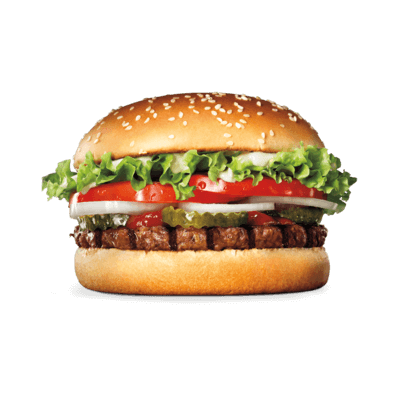
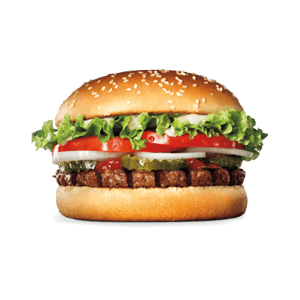
MENU 1

diff --git a/index.html b/index.html
@@ -241,18 +241,131 @@
     </section>
 
     <section class="menu">
-        <div class="container-fluid" style="min-height: 1750px;">
-            <div class="col-12 col-md-3">
-            <div class="row">
-                <div class="burgers">
-                    <img class="bottom img-fluid" src="image/test1.png" />
-                    <img class="top img-fluid" src="image/burger1.png" />
-                </div>
-        </div>
-            </div>
-        </div>
+        <div class="container-fluid" style="min-height: 1700px; max-width: 1500px;">
+            <div class="row justify-content-center">
 
-</section>
+                <div class="col-12 col-md-3">
+                    <div class="burgers text-center w-100 ">
+                        <div class="bottom w-100 text-center pt-5">
+                           <font color="#800000"><h2>BBQ CHEESE & BACON</h2></font>
+                            <div
+                                style="width: 150px; margin:auto; padding-top:3px; padding-bottom:1px;border: 1px solid #800000; text-align: center;background: #800000;">
+                               <font color="white"><h4>4€</h4></font>
+                            </div>
+                        </div>
+                        <img class="top img-fluid " src="image/burger1.png" />
+                        <div class="bottom w-100 position-absolute text-center" style="bottom: 30px;"><font size=1><b><p>Pain maison, 2 steak 50gr, cheddar, tomate, salade, oignon, cornichon</p></b></font></div>
+                    </div>
+                </div>
+
+                <div class="col-12 col-md-3">
+                    <div class="burgers text-center w-100 ">
+                        <div class="bottom w-100 text-center pt-5">
+                           <font color="#800000"><h2>WHOPPER JR.®</h2></font>
+                            <div
+                                style="width: 150px; margin:auto; padding-top:3px; padding-bottom:1px;border: 1px solid #800000; text-align: center;background: #800000;">
+                               <font color="white"><h4>4,50€</h4></font>
+                            </div>
+                        </div>
+                        <img class="top img-fluid " src="image/burger2.png" />
+                        <div class="bottom w-100 position-absolute text-center" style="bottom: 30px;"><font size=1><b><p>Pain maison, steak 150gr, cheddar, tomate, salade, oignon, cornichon</p></b></font></div>
+                    </div>
+                </div>
+
+                <div class="col-12 col-md-3">
+                    <div class="burgers text-center w-100 ">
+                        <div class="bottom w-100 text-center pt-5">
+                           <font color="#800000"><h2>CRISPY CHICKEN</h2></font>
+                            <div
+                                style="width: 150px; margin:auto; padding-top:3px; padding-bottom:1px;border: 1px solid #800000; text-align: center;background: #800000;">
+                               <font color="white"><h4>4€</h4></font>
+                            </div>
+                        </div>
+                        <img class="top img-fluid " src="image/burger3.png" />
+                        <div class="bottom w-100 position-absolute text-center" style="bottom: 30px;"><font size=1><b><p>Pain maison, Poulet pané croustillant, salade, thomate</p></b></font></div>
+                    </div>
+                </div>
+
+                                <div class="col-12 col-md-3">
+                    <div class="burgers text-center w-100 ">
+                        <div class="bottom w-100 text-center pt-5">
+                           <font color="#800000"><h2>BACON CHEESE</h2></font>
+                            <div
+                                style="width: 150px; margin:auto; padding-top:3px; padding-bottom:1px;border: 1px solid #800000; text-align: center;background: #800000;">
+                               <font color="white"><h4>4€</h4></font>
+                            </div>
+                        </div>
+                        <img class="top img-fluid " src="image/burger4.png" />
+                        <div class="bottom w-100 position-absolute text-center" style="bottom: 30px;"><font size=1><b><p>Pain maison, steak 150gr, cheddar, tomate, salade, oignon, cornichon</p></b></font></div>
+                    </div>
+                </div>
+            </div>
+
+
+            <div class="row justify-content-center">
+
+                <div class="col-12 col-md-3">
+                    <div class="burgers text-center w-100 ">
+                        <div class="bottom w-100 text-center pt-5">
+                           <font color="#800000"><h2>CHICKEN LOUISIANE</h2></font>
+                            <div
+                                style="width: 150px; margin:auto; padding-top:3px; padding-bottom:1px;border: 1px solid #800000; text-align: center;background: #800000;">
+                               <font color="white"><h4>7€</h4></font>
+                            </div>
+                        </div>
+                        <img class="top img-fluid " src="image/burger5.png" />
+                        <div class="bottom w-100 position-absolute text-center" style="bottom: 30px;"><font size=1><b><p>pain moelleux, oignons, bacon, fromage fondu, poulet pané croustillant </p></b></font></div>
+                    </div>
+                </div>
+
+                <div class="col-12 col-md-3">
+                    <div class="burgers text-center w-100 ">
+                        <div class="bottom w-100 text-center pt-5">
+                           <font color="#800000"><h2>CHICKEN WIKS</h2></font>
+                            <div
+                                style="width: 150px; margin:auto; padding-top:3px; padding-bottom:1px;border: 1px solid #800000; text-align: center;background: #800000;">
+                               <font color="white"><h4>3€</h4></font>
+                            </div>
+                        </div>
+                        <img class="top img-fluid " src="image/burger6.png" />
+                        <div class="bottom w-100 position-absolute text-center" style="bottom: 30px;"><font size=1><b><p>Pain maison, poulet croustillant, tomate, salade, oignon</p></b></font></div>
+                    </div>
+                </div>
+
+                <div class="col-12 col-md-3">
+                    <div class="burgers text-center w-100 ">
+                        <div class="bottom w-100 text-center pt-5">
+                           <font color="#800000"><h2>WRAP CROUSTY</h2></font>
+                            <div
+                                style="width: 150px; margin:auto; padding-top:3px; padding-bottom:1px;border: 1px solid #800000; text-align: center;background: #800000;">
+                               <font color="white"><h4>6€</h4></font>
+                            </div>
+                        </div>
+                        <img class="top img-fluid " src="image/burger7.png" />
+                        <div class="bottom w-100 position-absolute text-center" style="bottom: 30px;"><font size=1><b><p>fromages fondues, salade, tomate, oignons frits et une tortilla </p></b></font></div>
+                    </div>
+                </div>
+
+                <div class="col-12 col-md-3">
+                    <div class="burgers text-center w-100 ">
+                        <div class="bottom w-100 text-center pt-5">
+                           <font color="#800000"><h2>PETIT VEGAS</h2></font>
+                            <div
+                                style="width: 150px; margin:auto; padding-top:3px; padding-bottom:1px;border: 1px solid #800000; text-align: center;background: #800000;">
+                               <font color="white"><h4>2€</h4></font>
+                            </div>
+                        </div>
+                        <img class="top img-fluid " src="image/burger8.png" />
+                        <div class="bottom w-100 position-absolute text-center" style="bottom: 30px;"><font size=1><b><p>Pain maison, poulet croustillant, salade, tomate, oignons</p></b></font></div>
+                    </div>
+                </div>
+
+                
+
+            </div>
+            </div>
+                
+    </section>
 
 
 </body>

diff --git a/css/style.css b/css/style.css
@@ -1,3 +1,4 @@
+
 #index {
     background-image: url(../image/index.png);
     background-position: bottom center;
@@ -41,20 +42,13 @@
 }
 
 img.top.img-fluid {
-    position: absolute;
-    top: 0;
-    left: 0;
+margin-top:-50px;
 }
 
-.burgers:hover .bottom{    position:absolute;
-    left:0;
+.burgers:hover .bottom{    
     opacity: 1;
     -webkit-transition: opacity 1s ease-in-out;
     -moz-transition: opacity 1s ease-in-out;
     -o-transition: opacity 1s ease-in-out;
     transition: opacity 1s ease-in-out;}
 
-    img.top {
-        position: absolute;
-        top: 0;
-        left: 0;
